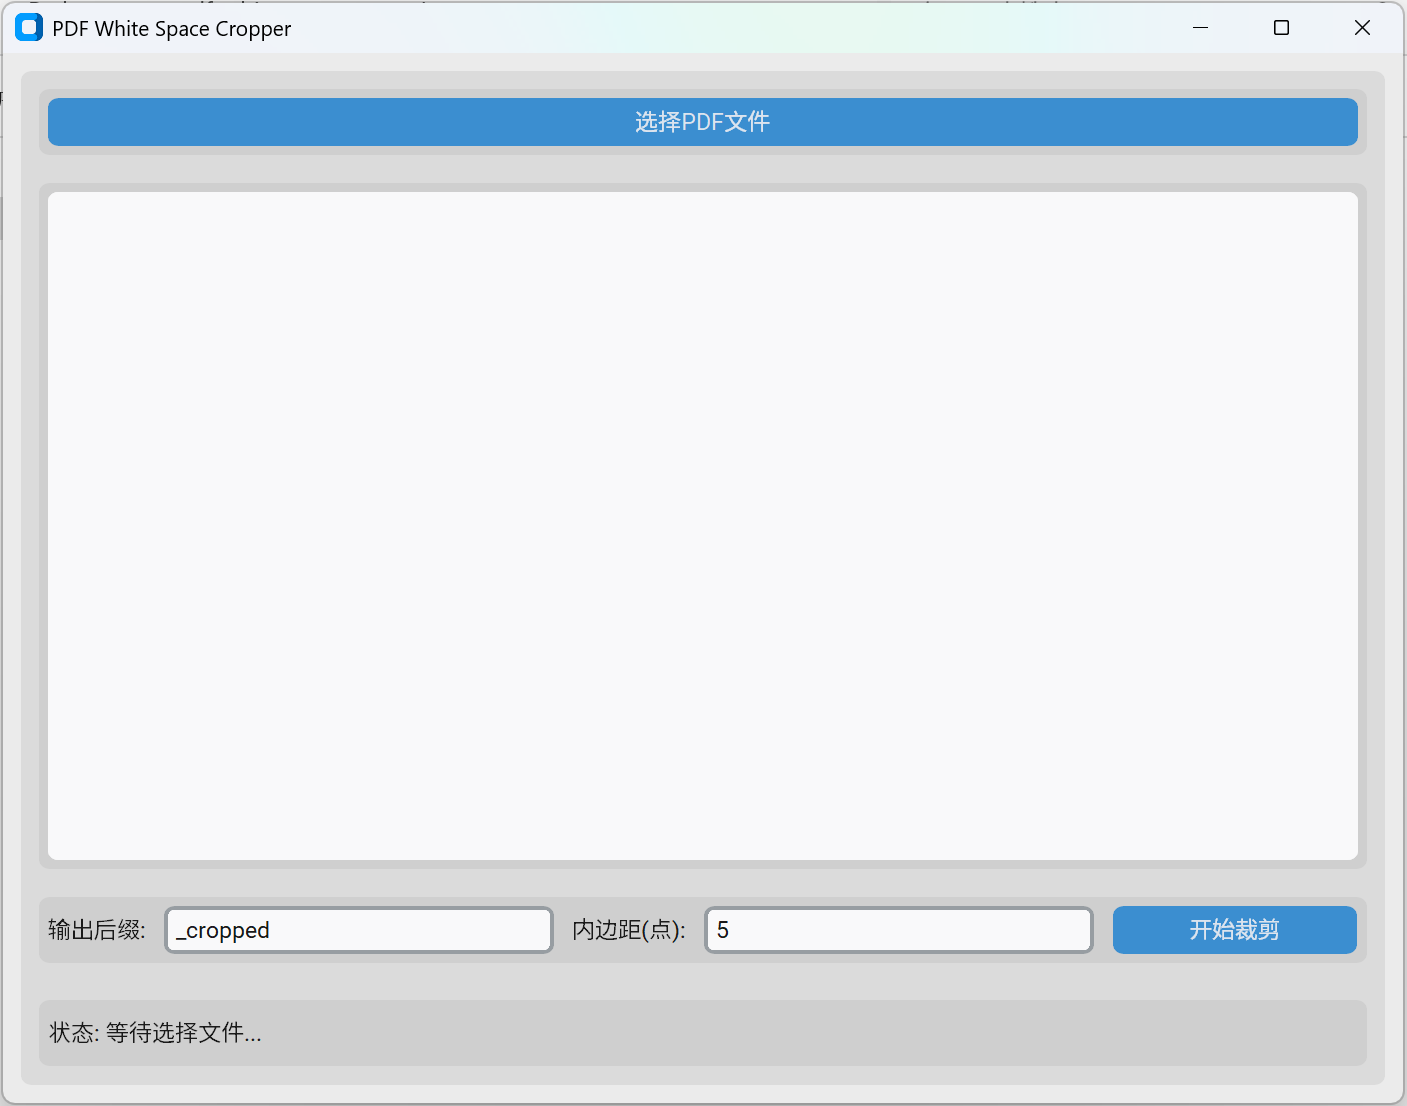
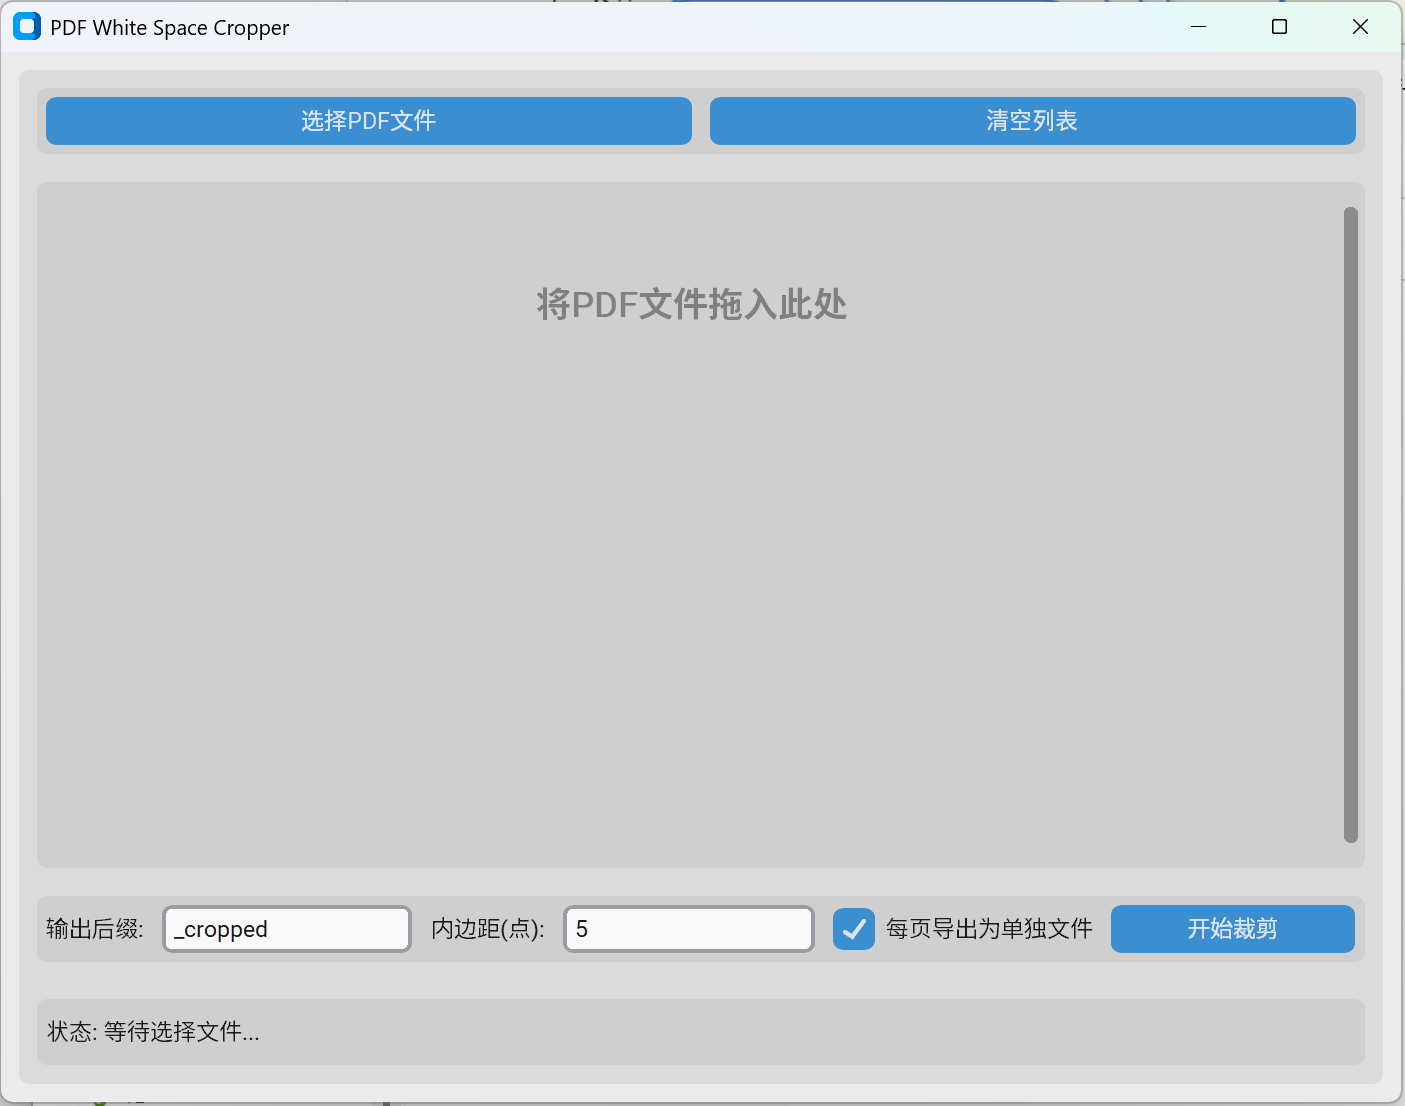
docs: update README with new CLI options and features; add drag-and-drop support for file uploads

diff --git a/README.md b/README.md
@@ -23,6 +23,7 @@
 * **Python:** 编程语言。
 * **PyMuPDF (fitz):** 强大的PDF处理库，用于PDF的读取、内容分析和裁剪。
 * **CustomTkinter:** 基于Tkinter的美观UI框架，用于构建现代化桌面界面。
+* **TkinterDnD2** 实现拖拽上传功能。
 
 ---
 
@@ -43,7 +44,7 @@
 ### CLI
 
 ```bash
-usage: pdf_cropper.py [-h] --input_pdf INPUT_PDF [--suffix SUFFIX]
+usage: pdf_cropper.py [-h] --input_pdf INPUT_PDF [--suffix SUFFIX] [--margin MARGIN] [--export_per_page]
 
 自动裁剪PDF文件四周的空白
 
@@ -52,6 +53,8 @@ options:
   --input_pdf INPUT_PDF
                         输入PDF文件路径
   --suffix SUFFIX       裁剪后文件的后缀
+  --margin MARGIN       裁剪时的内边距，单位为点
+  --export_per_page     是否为每一页单独导出裁剪后的PDF
 ```
 
 ---
@@ -64,6 +67,12 @@ options:
 ---
 
 ## 📜 变更记录
+
+### 版本 v0.1.1
+* 新增清空文件列表按钮
+* 文件清单改为列表风格，并提供按钮打开所在目录和移除
+* 文件列表支持拖拽上传
+* 新增“每页导出为单独文件”选项
 
 ### 版本 v0.1
 
